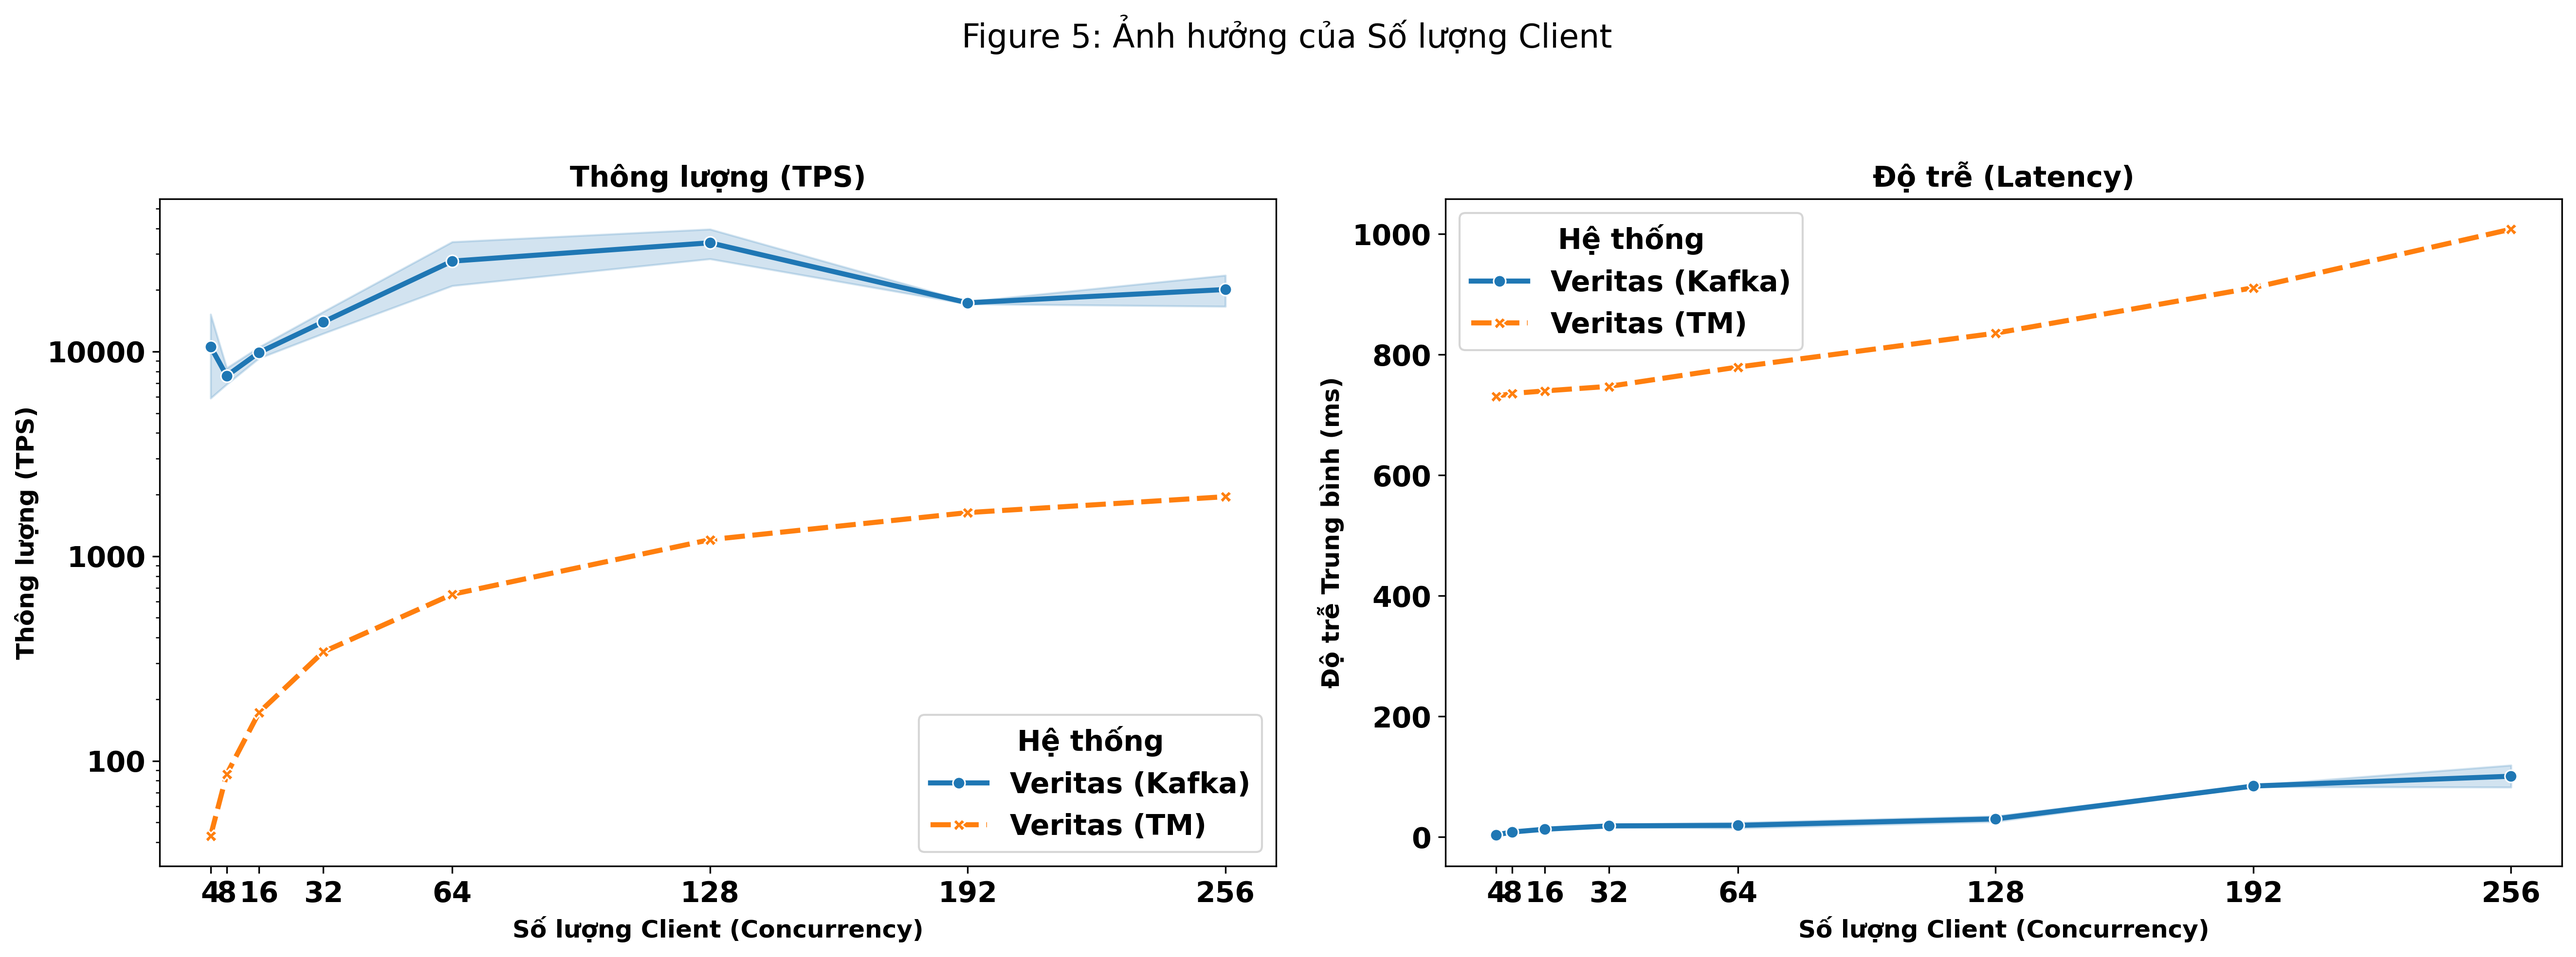
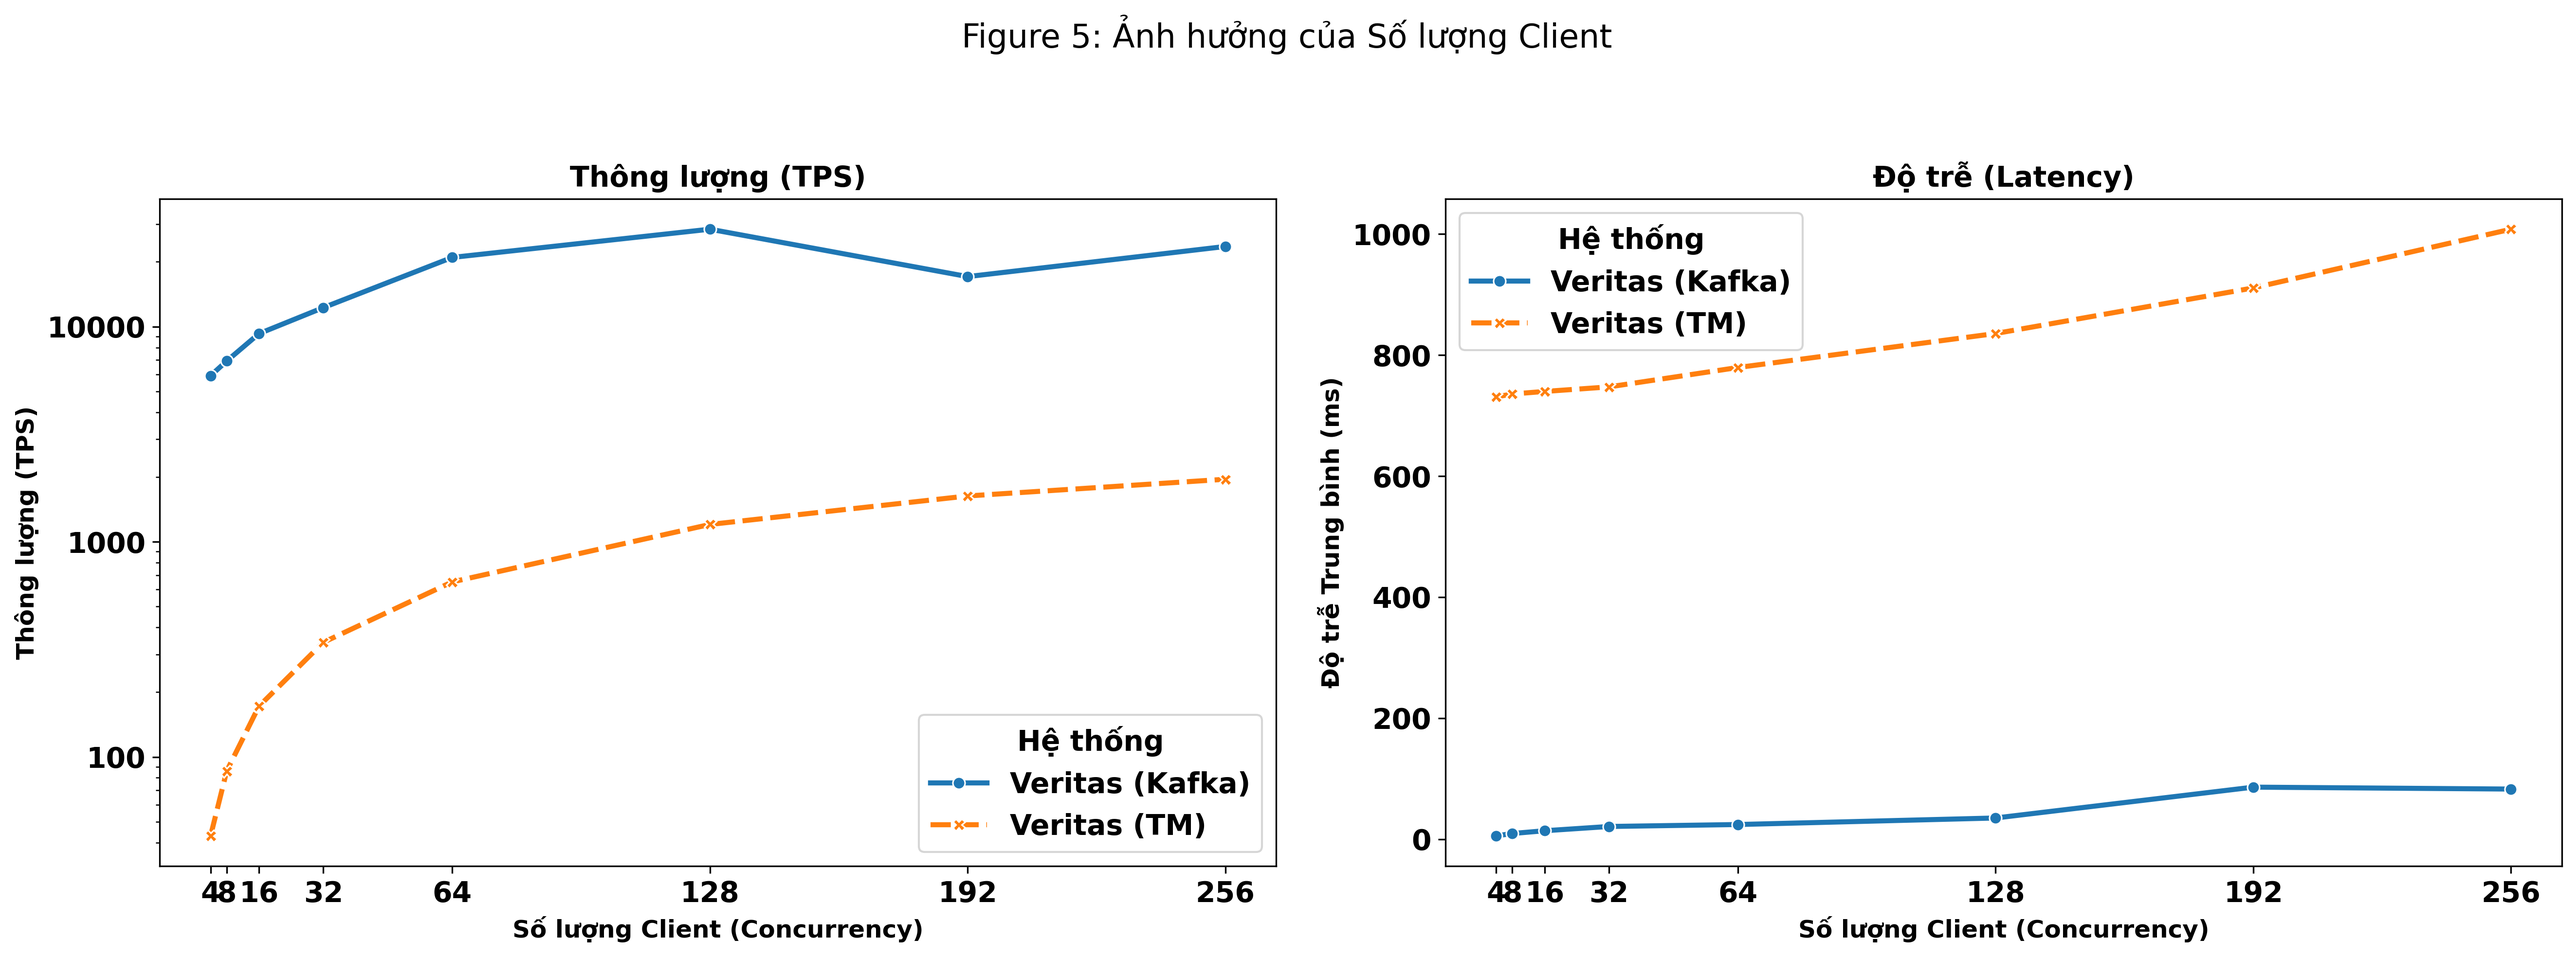
fix: updated render chart, get incorrect log for veritas kafka client

diff --git a/plot_all_figures.py b/plot_all_figures.py
@@ -37,52 +37,52 @@ LOG_DIRECTORY = "logs"
 
 # Ánh xạ tên thư mục sang tên hệ thống (key) và loại thí nghiệm (value)
 DIR_REGEX_MAP = {
-    re.compile(r'logs-clients-veritas-kafka'): ("Veritas (Kafka)", "clients"),
+    re.compile(r'logs-clients-veritas-kafka(?!-tso)'): ("Veritas (Kafka)", "clients"),
     re.compile(r'logs-clients-veritas-tendermint'): ("Veritas (TM)", "clients"),
     re.compile(r'logs-clients-bigchaindb'): ("BigchainDB", "clients"),
     re.compile(r'logs-clients-bigchaindb-pv'): ("BigchainDB (PV)", "clients"),
     re.compile(r'logs-clients-blockchaindb'): ("BlockchainDB", "clients"),
     
-    re.compile(r'logs-nodes-veritas-kafka'): ("Veritas (Kafka)", "nodes"),
+    re.compile(r'logs-nodes-veritas-kafka(?!-tso)'): ("Veritas (Kafka)", "nodes"),
     re.compile(r'logs-nodes-veritas-tendermint'): ("Veritas (TM)", "nodes"),
     re.compile(r'logs-nodes-bigchaindb'): ("BigchainDB", "nodes"),
     re.compile(r'logs-nodes-bigchaindb-pv'): ("BigchainDB (PV)", "nodes"),
     re.compile(r'logs-nodes-blockchaindb'): ("BlockchainDB", "nodes"),
     
-    re.compile(r'logs-distribution-veritas-kafka'): ("Veritas (Kafka)", "distribution"),
+    re.compile(r'logs-distribution-veritas-kafka(?!-tso)'): ("Veritas (Kafka)", "distribution"),
     re.compile(r'logs-distribution-veritas-tendermint'): ("Veritas (TM)", "distribution"),
     re.compile(r'logs-distribution-bigchaindb'): ("BigchainDB", "distribution"),
     re.compile(r'logs-distribution-bigchaindb-pv'): ("BigchainDB (PV)", "distribution"),
     re.compile(r'logs-distribution-blockchaindb'): ("BlockchainDB", "distribution"),
 
-    re.compile(r'logs-workload-veritas-kafka'): ("Veritas (Kafka)", "workload"),
+    re.compile(r'logs-workload-veritas-kafka(?!-tso)'): ("Veritas (Kafka)", "workload"),
     re.compile(r'logs-workload-veritas-tendermint'): ("Veritas (TM)", "workload"),
     re.compile(r'logs-workload-bigchaindb'): ("BigchainDB", "workload"),
     re.compile(r'logs-workload-bigchaindb-pv'): ("BigchainDB (PV)", "workload"),
     re.compile(r'logs-workload-blockchaindb'): ("BlockchainDB", "workload"),
     
-    re.compile(r'logs-database-veritas-kafka'): ("Veritas (Kafka) - RediSQL", "database"), 
-    re.compile(r'logs-workload-veritas-kafka.*'): ("Veritas (Kafka) - Redis", "database"), 
+    re.compile(r'logs-database-veritas-kafka(?!-tso)'): ("Veritas (Kafka) - RediSQL", "database"), 
+    re.compile(r'logs-workload-veritas-kafka(?!-tso).*'): ("Veritas (Kafka) - Redis", "database"), 
 
-    re.compile(r'logs-txsizes-veritas-kafka'): ("Veritas (Kafka)", "txsize"),
+    re.compile(r'logs-txsizes-veritas-kafka(?!-tso)'): ("Veritas (Kafka)", "txsize"),
     re.compile(r'logs-txsizes-veritas-tendermint'): ("Veritas (TM)", "txsize"),
     re.compile(r'logs-txsizes-bigchaindb'): ("BigchainDB", "txsize"),
     re.compile(r'logs-txsizes-bigchaindb-pv'): ("BigchainDB (PV)", "txsize"),
     re.compile(r'logs-txsizes-blockchaindb'): ("BlockchainDB", "txsize"),
 
-    re.compile(r'logs-txdelay-veritas-kafka'): ("Veritas (Kafka)", "txdelay"),
+    re.compile(r'logs-txdelay-veritas-kafka(?!-tso)'): ("Veritas (Kafka)", "txdelay"),
     re.compile(r'logs-txdelay-veritas-tendermint'): ("Veritas (TM)", "txdelay"),
     re.compile(r'logs-txdelay-bigchaindb'): ("BigchainDB", "txdelay"),
     re.compile(r'logs-txdelay-bigchaindb-pv'): ("BigchainDB (PV)", "txdelay"),
     re.compile(r'logs-txdelay-blockchaindb'): ("BlockchainDB", "txdelay"),
 
-    re.compile(r'logs-networking-veritas-kafka'): ("Veritas (Kafka)", "networking"),
+    re.compile(r'logs-networking-veritas-kafka(?!-tso)'): ("Veritas (Kafka)", "networking"),
     re.compile(r'logs-networking-veritas-tendermint'): ("Veritas (TM)", "networking"),
     re.compile(r'logs-networking-bigchaindb'): ("BigchainDB", "networking"),
     re.compile(r'logs-networking-bigchaindb-pv'): ("BigchainDB (PV)", "networking"),
     re.compile(r'logs-networking-blockchaindb'): ("BlockchainDB", "networking"),
     
-    re.compile(r'logs-blksize-veritas-kafka'): ("Veritas (Kafka)", "blksize"),
+    re.compile(r'logs-blksize-veritas-kafka(?!-tso)'): ("Veritas (Kafka)", "blksize"),
     re.compile(r'logs-blksize-veritas-tendermint'): ("Veritas (TM)", "blksize"),
     re.compile(r'logs-blksize-blockchaindb'): ("BlockchainDB", "blksize"),
 }
@@ -337,7 +337,7 @@ def plot_figure_5(df):
     client_ticks = sorted(df['clients'].unique())
     fig, (ax1, ax2) = plt.subplots(1, 2, figsize=(18, 7))
     fig.suptitle('Figure 5: Ảnh hưởng của Số lượng Client', fontsize=16)
-    sns.lineplot(data=df, x="clients", y="throughput", hue="system", style="system", markers=True, dashes=True, ax=ax1, linewidth=2.5)
+    sns.lineplot(data=df, x="clients", y="throughput", hue="system", style="system", markers=True, dashes=True, ax=ax1, linewidth=2.5, estimator=None, ci=None)
     ax1.set_title('Thông lượng (TPS)', fontsize=14)
     ax1.set_xlabel('Số lượng Client (Concurrency)', fontsize=12)
     ax1.set_ylabel('Thông lượng (TPS)', fontsize=12)
@@ -346,7 +346,7 @@ def plot_figure_5(df):
     ax1.set_xticks(client_ticks)
     ax1.get_xaxis().set_major_formatter(ticker.ScalarFormatter())
     ax1.get_yaxis().set_major_formatter(y_axis_formatter) # <-- ĐÃ ÁP DỤNG
-    sns.lineplot(data=df, x="clients", y="latency", hue="system", style="system", markers=True, dashes=True, ax=ax2, linewidth=2.5)
+    sns.lineplot(data=df, x="clients", y="latency", hue="system", style="system", markers=True, dashes=True, ax=ax2, linewidth=2.5, estimator=None, ci=None)
     ax2.set_title('Độ trễ (Latency)', fontsize=14)
     ax2.set_xlabel('Số lượng Client (Concurrency)', fontsize=12)
     ax2.set_ylabel('Độ trễ Trung bình (ms)', fontsize=12)
@@ -368,7 +368,7 @@ def plot_figure_7(df):
     node_ticks = sorted(df['nodes'].unique())
     fig, (ax1, ax2) = plt.subplots(1, 2, figsize=(18, 7))
     fig.suptitle('Figure 7: Ảnh hưởng của Số lượng Node', fontsize=16)
-    sns.lineplot(data=df, x="nodes", y="throughput", hue="system", style="system", markers=True, dashes=True, ax=ax1, linewidth=2.5)
+    sns.lineplot(data=df, x="nodes", y="throughput", hue="system", style="system", markers=True, dashes=True, ax=ax1, linewidth=2.5, estimator=None, ci=None)
     ax1.set_title('Thông lượng (TPS)', fontsize=14)
     ax1.set_xlabel('Số lượng Node (Server)', fontsize=12)
     ax1.set_ylabel('Thông lượng (TPS)', fontsize=12)
@@ -377,7 +377,7 @@ def plot_figure_7(df):
     ax1.set_xticks(node_ticks)
     ax1.get_xaxis().set_major_formatter(ticker.ScalarFormatter())
     ax1.get_yaxis().set_major_formatter(y_axis_formatter) # <-- ĐÃ ÁP DỤNG
-    sns.lineplot(data=df, x="nodes", y="latency", hue="system", style="system", markers=True, dashes=True, ax=ax2, linewidth=2.5)
+    sns.lineplot(data=df, x="nodes", y="latency", hue="system", style="system", markers=True, dashes=True, ax=ax2, linewidth=2.5, estimator=None, ci=None)
     ax2.set_title('Độ trễ (Latency)', fontsize=14)
     ax2.set_xlabel('Số lượng Node (Server)', fontsize=12)
     ax2.set_ylabel('Độ trễ Trung bình (ms)', fontsize=12)
@@ -398,7 +398,7 @@ def plot_figure_8(df):
     df = df.sort_values(by="Nodes")
     node_ticks = sorted(df['Nodes'].unique())
     plt.figure(figsize=(10, 7))
-    ax = sns.lineplot(data=df, x="Nodes", y="Operations", hue="Operation Type", style="Operation Type", markers=True, dashes=True, linewidth=2.5)
+    ax = sns.lineplot(data=df, x="Nodes", y="Operations", hue="Operation Type", style="Operation Type", markers=True, dashes=True, linewidth=2.5, estimator=None, ci=None)
     ax.set_title('Figure 8: Ảnh hưởng của Số Node (Thao tác Kafka)', fontsize=26)
     ax.set_xlabel('Số lượng Node (Server)', fontsize=22)
     ax.set_ylabel('Số lượng Thao tác Kafka', fontsize=22)
@@ -484,7 +484,7 @@ def plot_figure_12(df):
     print("\nĐang vẽ Figure 12 (Block Size)...")
     df = df.sort_values(by="blksize")
     plt.figure(figsize=(10, 7))
-    ax = sns.lineplot(data=df, x="blksize", y="throughput", hue="system", style="system", markers=True, dashes=True, linewidth=2.5)
+    ax = sns.lineplot(data=df, x="blksize", y="throughput", hue="system", style="system", markers=True, dashes=True, linewidth=2.5, estimator=None, ci=None)
     ax.set_title('Figure 12: Ảnh hưởng của Kích thước Khối (Block Size)', fontsize=16)
     ax.set_xlabel('Kích thước Khối (Số lượng giao dịch)', fontsize=12)
     ax.set_ylabel('Thông lượng (TPS)', fontsize=12)
@@ -507,7 +507,7 @@ def plot_figure_13_14(df13, df14):
         df13['size_label'] = df13['size_label'].astype(str)
         df13 = df13.sort_values(by='size_kb')
         plt.figure(figsize=(10, 7))
-        ax = sns.lineplot(data=df13, x="size_label", y="throughput", hue="system", style="system", markers=True, dashes=True, linewidth=2.5)
+        ax = sns.lineplot(data=df13, x="size_label", y="throughput", hue="system", style="system", markers=True, dashes=True, linewidth=2.5, estimator=None, ci=None)
         ax.set_title('Figure 13: Ảnh hưởng của Kích thước Giao dịch', fontsize=16)
         ax.set_xlabel('Kích thước Key-Value', fontsize=12) 
         ax.set_ylabel('Thông lượng (TPS)', fontsize=12)
@@ -526,7 +526,7 @@ def plot_figure_13_14(df13, df14):
         df14 = df14.sort_values(by="delay_ms")
         df14['delay_ms_str'] = df14['delay_ms'].astype(str) + ' ms'
         plt.figure(figsize=(10, 7))
-        ax = sns.lineplot(data=df14, x="delay_ms_str", y="throughput", hue="system", style="system", markers=True, dashes=True, linewidth=2.5)
+        ax = sns.lineplot(data=df14, x="delay_ms_str", y="throughput", hue="system", style="system", markers=True, dashes=True, linewidth=2.5, estimator=None, ci=None)
         ax.set_title('Figure 14: Ảnh hưởng của Thời gian Xử lý Giao dịch', fontsize=16)
         ax.set_xlabel('Thời gian Xử lý (ms)', fontsize=12)
         ax.set_ylabel('Thông lượng (TPS)', fontsize=12)
@@ -557,7 +557,8 @@ def plot_figure_15_16(df):
         hue="Bandwidth", style="Bandwidth", col="System",
         kind="line", markers=True, dashes=True, linewidth=2.5,
         height=6, aspect=1,
-        facet_kws={'sharey': False}  # *** ĐÃ SỬA LỖI: Đặt sharey=False vào đúng chỗ ***
+        facet_kws={'sharey': False},  # *** ĐÃ SỬA LỖI: Đặt sharey=False vào đúng chỗ ***
+        estimator=None, ci=None
     )
     g_tps.fig.suptitle('Figure 15: Ảnh hưởng của Mạng (Thông lượng)', y=1.03, fontsize=16)
     g_tps.set_axis_labels("Thời gian Trễ Mạng (RTT) [ms]", "Thông lượng (TPS)")
@@ -584,7 +585,8 @@ def plot_figure_15_16(df):
         hue="Bandwidth", style="Bandwidth", col="System",
         kind="line", markers=True, dashes=True, linewidth=2.5,
         height=6, aspect=1,
-        facet_kws={'sharey': False}  # *** ĐÃ SỬA LỖI: Đặt sharey=False vào đúng chỗ ***
+        facet_kws={'sharey': False},  # *** ĐÃ SỬA LỖI: Đặt sharey=False vào đúng chỗ ***
+        estimator=None, ci=None
     )
     g_lat.fig.suptitle('Figure 16: Ảnh hưởng của Mạng (Độ trễ)', y=1.03, fontsize=16)
     g_lat.set_axis_labels("Thời gian Trễ Mạng (RTT) [ms]", "Độ trễ Trung bình (ms)")
